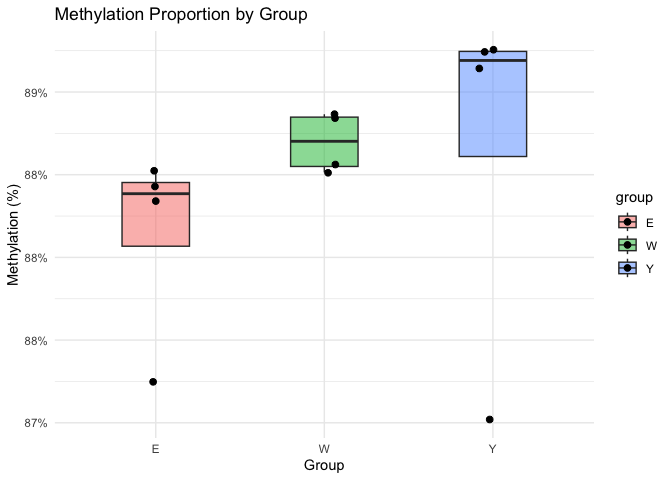
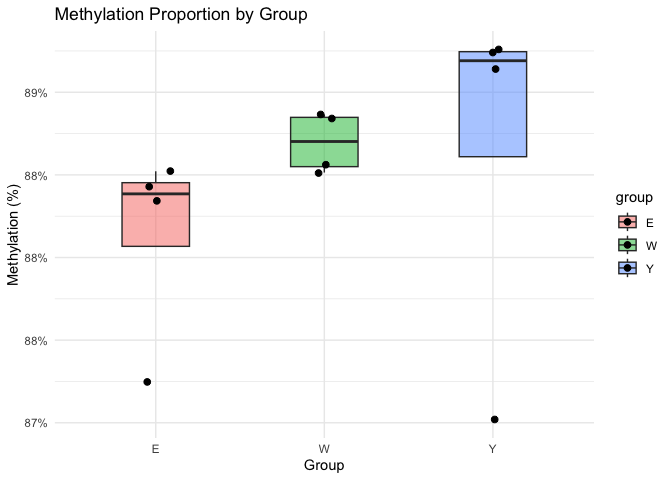
rmd

diff --git a/results/2025-09-11/README.md b/results/2025-09-11/README.md
@@ -11,6 +11,14 @@
     As a sanity check, there are more accessible regions in FL compared
     to adult HSCs as we would expect.
 
+### Acronym
+
+-   CpG: Count of methylated cytosines (C).
+-   uCpG: Count of unmethylated cytosines (T).
+-   p: Percentage of methylation, defined as CpG/(CpG + uCpG )
+-   W: Week.
+-   E: Embryo.
+
 ### Before Outlier Filtering
 
 <table>
